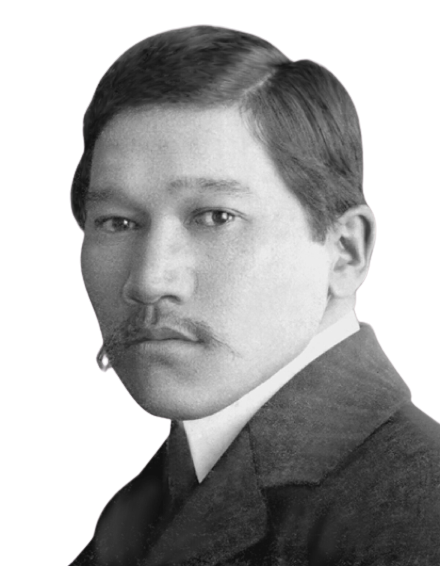
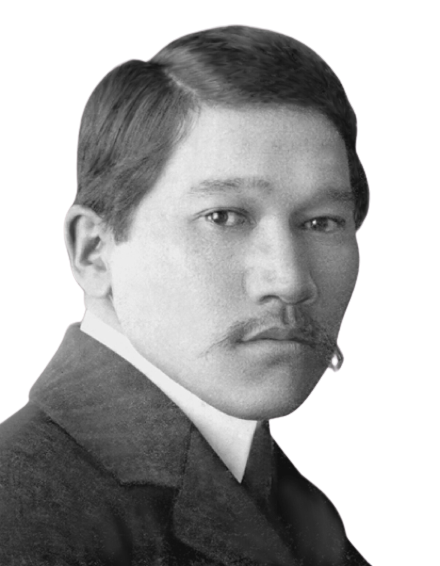
Update ui/ux

diff --git a/app/choose-characters/chooseCharacter.jsx b/app/choose-characters/chooseCharacter.jsx
@@ -3,13 +3,35 @@
 import Image from "next/image";
 import { useState, useEffect } from "react";
 import CourtroomScene from "@/components/aitys/CourtroomScene";
+import Character from "@/components/aitys/Character";
 
 export default function ChooseCharacter() {
   const [firstCharacter, setFirstCharacter] = useState();
+  //   {
+  //   name: "Akhmet Baitursynov",
+  //   image: "/baitursynov.png",
+  //   description:
+  //     "Akhmet Baitursynov was a prominent Kazakh poet, writer, and public figure. He played a crucial role in the development of Kazakh literature and language reform.",
+  // }
   const [secondCharacter, setSecondCharacter] = useState();
   const [firstSelect, setFirstSelect] = useState(true);
   const [secondSelect, setSecondSelect] = useState(false);
-  const [replies, setReplies] = useState([]);
+  const [replies, setReplies] = useState({
+    // replies: [
+    //   {
+    //     "Akhmet Baitursynov":
+    //       "yes yes yes yes\nyes yes yes yes\nyes yes yes yes\nyes yes yes yes\nyes yes yes yes\nyes yes yes yes\nyes yes yes yes\nyes yes yes yes\nyes yes yes yes\nyes yes yes yes\nyes yes yes yes\nyes yes yes yes\nyes yes yes yes\nyes yes yes yes\nyes yes yes yes\nyes yes yes yes\nyes yes yes yes\nyes yes yes yes\nyes yes yes yes\nyes yes yes yes\nyes yes yes yes\nyes yes yes yes",
+    //     "Saken Seifullin":
+    //       "No No No No\n No No No No\n No No No No\n No No No No\n No No No No\n No No No No",
+    //   },
+    //   {
+    //     "Akhmet Baitursynov":
+    //       "No No No No\n No No No No\n No No No No\n No No No No\n No No No No\n No No No No\n No No No No\n No No No No\n No No No No",
+    //     "Saken Seifullin":
+    //       "yesyesyesyesyesyesyesyesyesyesyesyesyesyesyesyesyes",
+    //   },
+    // ],
+  });
   const [topic, setTopic] = useState("");
   const [isGenerated, setIsGenerated] = useState();
   const [data, setData] = useState([
@@ -23,13 +45,13 @@ export default function ChooseCharacter() {
       name: "Alikhan Bukeikhanov",
       image: "/bukeikhanov.png",
       description:
-        "Alikhan Bukeikhanov was a Kazakh composer and musician. He is known for his contributions to Kazakh classical music and his efforts in preserving traditional Kazakh music.",
+        "Alikhan Bukeikhanov is a prominent social and public figure, organizer, and the leader of the national-democratic party Alash, first leader of the Kazakh national “Alash Orda” government.",
     },
     {
       name: "Mirzhakyp Dulatov",
       image: "/dulatov.png",
       description:
-        "Mirzhakyp Dulatov was a Kazakh poet, writer, publicist, teacher, one of the leaders of ‘Alash Orda’ government and the national liberation movement of Kazakhstan. ",
+        "Mirzhakyp Dulatov was a Kazakh poet, writer, publicist, teacher, one of the leaders of “Alash Orda” government and the national liberation movement of Kazakhstan. ",
     },
     {
       name: "Saken Seifullin",
@@ -54,6 +76,10 @@ export default function ChooseCharacter() {
   function onChange(e) {
     setTopic(e.target.value);
   }
+
+  // function getAitys() {
+  //   setIsGenerated(true);
+  // }
 
   async function getAitys(e) {
     e.preventDefault();
@@ -120,12 +146,10 @@ export default function ChooseCharacter() {
       ) : (
         <>
           <div className="my-2 flex content-between items-center gap-10">
-            <div onClick={() => setFirstSelect(true)} className="h-60">
-              <Image
-                alt={firstCharacter ? firstCharacter.name : "First Character"}
-                src={firstCharacter ? firstCharacter.image : "/unknown.png"}
-                height={240}
-                width={180}
+            <div onClick={() => setFirstSelect(true)}>
+              <Character
+                image={firstCharacter ? firstCharacter.image : "/mark.png"}
+                name={firstCharacter ? firstCharacter.name : "First Character"}
               />
             </div>
             <div className="flex flex-col gap-4">
@@ -144,15 +168,16 @@ export default function ChooseCharacter() {
               </button>
             </div>
             <div onClick={() => setSecondSelect(true)}>
-              <Image
-                alt={secondCharacter ? secondCharacter.name : "unknown.png"}
-                src={secondCharacter ? secondCharacter.image : "/unknown.png"}
-                height={240}
-                width={180}
+              <Character
+                second={true}
+                image={secondCharacter ? secondCharacter.image : "/mark.png"}
+                name={
+                  secondCharacter ? secondCharacter.name : "Second character"
+                }
               />
             </div>
           </div>
-          <div className="flex content-around items-center px-60 py-8s">
+          <div className="py-8s flex content-around items-center px-60">
             <div>
               {(selectedCharacter === data.length) === 0 ? (
                 <div>
@@ -161,7 +186,7 @@ export default function ChooseCharacter() {
               ) : (
                 <div
                   key={selectedCharacter.id}
-                  className="mx-5 rounded-3xl border-4  bg-red-50 p-3  "
+                  className="my-8 rounded-3xl border-4  bg-red-50 p-3  "
                 >
                   <h1 className="text-4xl text-fuchsia-950">
                     {selectedCharacter.name}

diff --git a/components/aitys/CourtroomScene.jsx b/components/aitys/CourtroomScene.jsx
@@ -7,9 +7,11 @@ const CourtroomScene = ({ character1, character2, replies }) => {
   const dombraSoundRef = useRef(new Audio("/dombra-sound.mp3"));
   const [currentReplyIndex, setCurrentReplyIndex] = useState(0);
   const [currentCharacter, setCurrentCharacter] = useState(0);
+  const [enableRepeat, setEnableRepeat] = useState(false);
 
   const stopSound = () => {
     const dombraSound = dombraSoundRef.current;
+    dombraSoundRef.current.loop = true;
     dombraSound.currentTime = 0;
     dombraSound.pause();
     stopTextToSpeech();
@@ -25,9 +27,11 @@ const CourtroomScene = ({ character1, character2, replies }) => {
     if ("speechSynthesis" in window) {
       let msg =
         currentCharacter === 0
-          ? new SpeechSynthesisUtterance(replies.replies[currentReplyIndex][character1.name])
+          ? new SpeechSynthesisUtterance(
+              replies.replies[currentReplyIndex][character1.name],
+            )
           : new SpeechSynthesisUtterance(
-            replies.replies[currentReplyIndex][character2.name],
+              replies.replies[currentReplyIndex][character2.name],
             );
       msg.onend = function (event) {
         handleNextClick();
@@ -38,7 +42,7 @@ const CourtroomScene = ({ character1, character2, replies }) => {
 
   const playSound = () => {
     const dombraSound = dombraSoundRef.current;
-    dombraSound.volume = 0.3;
+    dombraSound.volume = 0.5;
     dombraSound.play();
     textToSpeech();
   };
@@ -47,6 +51,12 @@ const CourtroomScene = ({ character1, character2, replies }) => {
     stopSound();
     playSound();
   }, [currentCharacter, currentReplyIndex]);
+
+  const handleRepeat = () => {
+    setCurrentReplyIndex(0);
+    setCurrentCharacter(0);
+    setEnableRepeat(false);
+  };
 
   const handlePrevClick = () => {
     if (currentReplyIndex === 0) {
@@ -57,9 +67,12 @@ const CourtroomScene = ({ character1, character2, replies }) => {
   };
 
   const handleNextClick = () => {
-    if (currentReplyIndex === replies.replies.length - 1 && currentCharacter === 1) {
-      setCurrentReplyIndex(0);
-      setCurrentCharacter(0);
+    if (
+      currentReplyIndex === replies.replies.length - 1 &&
+      currentCharacter === 1
+    ) {
+      stopSound();
+      setEnableRepeat(true);
       return;
     }
     if (currentCharacter === 0) {
@@ -93,15 +106,9 @@ const CourtroomScene = ({ character1, character2, replies }) => {
         {transitions((style) => (
           <animated.div style={style} className="flex items-center gap-x-5">
             {currentCharacter === 0 ? (
-              <Character
-                name={character1.name}
-                image={character1.image}
-              />
+              <Character name={character1.name} image={character1.image} />
             ) : (
-              <Character
-                name={character2.name}
-                image={character2.image}
-              />
+              <Character name={character2.name} image={character2.image} />
             )}
             <Reply
               text={
@@ -113,10 +120,19 @@ const CourtroomScene = ({ character1, character2, replies }) => {
           </animated.div>
         ))}
       </div>
-      <div className="flex text-4xl font-bold">
-        <button onClick={handlePrevClick}>{"<"}</button>
-        <button onClick={handleNextClick}>{">"}</button>
-      </div>
+      {enableRepeat ? (
+        <button
+          className="my-4 rounded-2xl bg-[#F08A8A] px-6 py-2 text-xl text-white"
+          onClick={handleRepeat}
+        >
+          Start again
+        </button>
+      ) : (
+        <div className="flex text-4xl font-bold">
+          <button onClick={handlePrevClick}>{"<"}</button>
+          <button onClick={handleNextClick}>{">"}</button>
+        </div>
+      )}
     </div>
   );
 };

diff --git a/components/home/landing.jsx b/components/home/landing.jsx
@@ -3,13 +3,17 @@ import Features from "./features";
 import HistoricalFiguresScroll from "./historica-figures-scroll";
 import Divider from "./divider";
 import Link from "next/link";
+import Footer from "@/components/layout/footer";
 
 export default function Landing() {
   return (
     <>
       <div
-        className="relative my-16  h-96 bg-center bg-no-repeat"
-        style={{ backgroundImage: "url('oyu-bg.png')" }}
+        className="my-16 h-96 w-auto bg-center bg-no-repeat"
+        style={{
+          backgroundImage: "url('oyu-bg.png')",
+          backgroundSize: "contain",
+        }}
       >
         <div className="relative z-10 flex h-full flex-col items-center justify-center space-y-8 px-4 py-16">
           <h1 className="text-center text-4xl font-extrabold tracking-tight  sm:text-5xl md:text-6xl">
@@ -35,8 +39,7 @@ export default function Landing() {
         </div>
       </div>
 
-      {/* <Features /> */}
-      {/* <HistoricalFiguresScroll id="figures" /> */}
+      <Footer />
     </>
   );
 }

diff --git a/components/aitys/Character.jsx b/components/aitys/Character.jsx
@@ -1,10 +1,20 @@
 import Image from "next/image";
 
-const Character = ({ name, image }) => {
+const Character = ({ name, image, second = false }) => {
   return (
     <div>
-      <Image src={image} alt={name} width={256} height={256} />
-      <h2 className="text-2xl font-bold ">{name}</h2>
+      <div className="h-64 w-64 overflow-hidden rounded-full border-4 border-[#B47878] bg-stone-300">
+        <Image
+          src={image}
+          alt={name}
+          width="256"
+          height="256"
+          className={`${
+            second && image != "/mark.png" ? "scale-x-[-1]" : ""
+          } object-cover`}
+        />
+      </div>
+      <h2 className="text-center text-2xl font-bold">{name}</h2>
     </div>
   );
 };

diff --git a/app/layout.jsx b/app/layout.jsx
@@ -1,4 +1,3 @@
-import Footer from "@/components/layout/footer";
 import Nav from "@/components/layout/nav";
 import { Analytics } from "@vercel/analytics/react";
 import Script from "next/script";
@@ -47,11 +46,11 @@ export default async function RootLayout({ children }) {
         <Suspense fallback="...">
           <Nav />
         </Suspense>
-        <main className="relative flex min-h-screen w-full flex-col items-center justify-center pt-16">
+        <main className="relative flex w-full flex-col items-center justify-center pt-16">
+          {" "}
           {children}
         </main>
         <Analytics />
-        {/* <Footer /> */}
       </body>
     </html>
   );

diff --git a/components/layout/footer.jsx b/components/layout/footer.jsx
@@ -1,10 +1,11 @@
 const Footer = () => {
   return (
-    <footer className="w-full bg-yellow-700 py-4 text-amber-50">
+    <footer className="bg-[#593440  w-full py-4 font-headline">
       <div className="container mx-auto text-center">
         <p>
           &copy; {new Date().getFullYear()} Aitys Battle. All rights reserved.
         </p>
+        <p>Made in Kazakhstan.</p>
       </div>
     </footer>
   );

diff --git a/components/home/divider.jsx b/components/home/divider.jsx
@@ -1,8 +1,13 @@
 const Divider = () => {
   return (
-    <div className=" flex">
-      <img src="oyus.png" className="inline-block w-full" />
-    </div>
+    <div
+      className="flex h-40 w-full "
+      style={{
+        backgroundImage: "url('oyus.png')",
+        backgroundRepeat: "repeat-x",
+        backgroundPosition: "center",
+      }}
+    />
   );
 };
 

diff --git a/components/aitys/Reply.jsx b/components/aitys/Reply.jsx
@@ -7,7 +7,9 @@ const Reply = ({ text }) => {
   };
 
   return (
-    <div className="text-center text-xl">{renderTextWithLineBreaks()}</div>
+    <div className="bg-black bg-opacity-20 text-center text-xl">
+      {renderTextWithLineBreaks()}
+    </div>
   );
 };
 

diff --git a/app/choose-characters/page.jsx b/app/choose-characters/page.jsx
@@ -1,5 +1,3 @@
-import CreateDebate from "@/components/aitys/CreateDebate";
-import HistoricalFigures from "@/components/home/historica-figures-scroll";
 import ChooseCharacter from "./chooseCharacter";
 
 export default function Dialogue() {

diff --git a/app/globals.css b/app/globals.css
@@ -11,6 +11,7 @@
 .character-profile:hover {
   border: 0.2rem solid rgb(252 211 77);
   cursor: pointer;
+  transform: scale(1.1);
 }
 
 h1, h2, h3, h4, h5, h6, p, button {

diff --git a/FIXLIST.md b/FIXLIST.md
@@ -1,0 +1,18 @@
+<!-- - hover make bigger -->
+<!-- - add padding over charachter description -->
+<!-- - add border to talking people -->
+<!-- - fix divider oyus: make them repeat from x axis -->
+<!-- - fix background images cut in landing page -->
+<!-- - затемнение текста, make more user-friendly -->
+<!-- - add loop for music -->
+<!-- - no need for loop voiceover -->
+<!-- - add: turn speaker to another speaker side -->
+<!-- - add proper footer -->
+- add loading screen
+- fix scroll x, y axis
+- block repeating request
+- no repeats (idk what did I mean when wrote this)
+- optimize generations speed
+- fix voiceover bad quality -> use model
+- bug when browser is muted 
+- add keypress events
